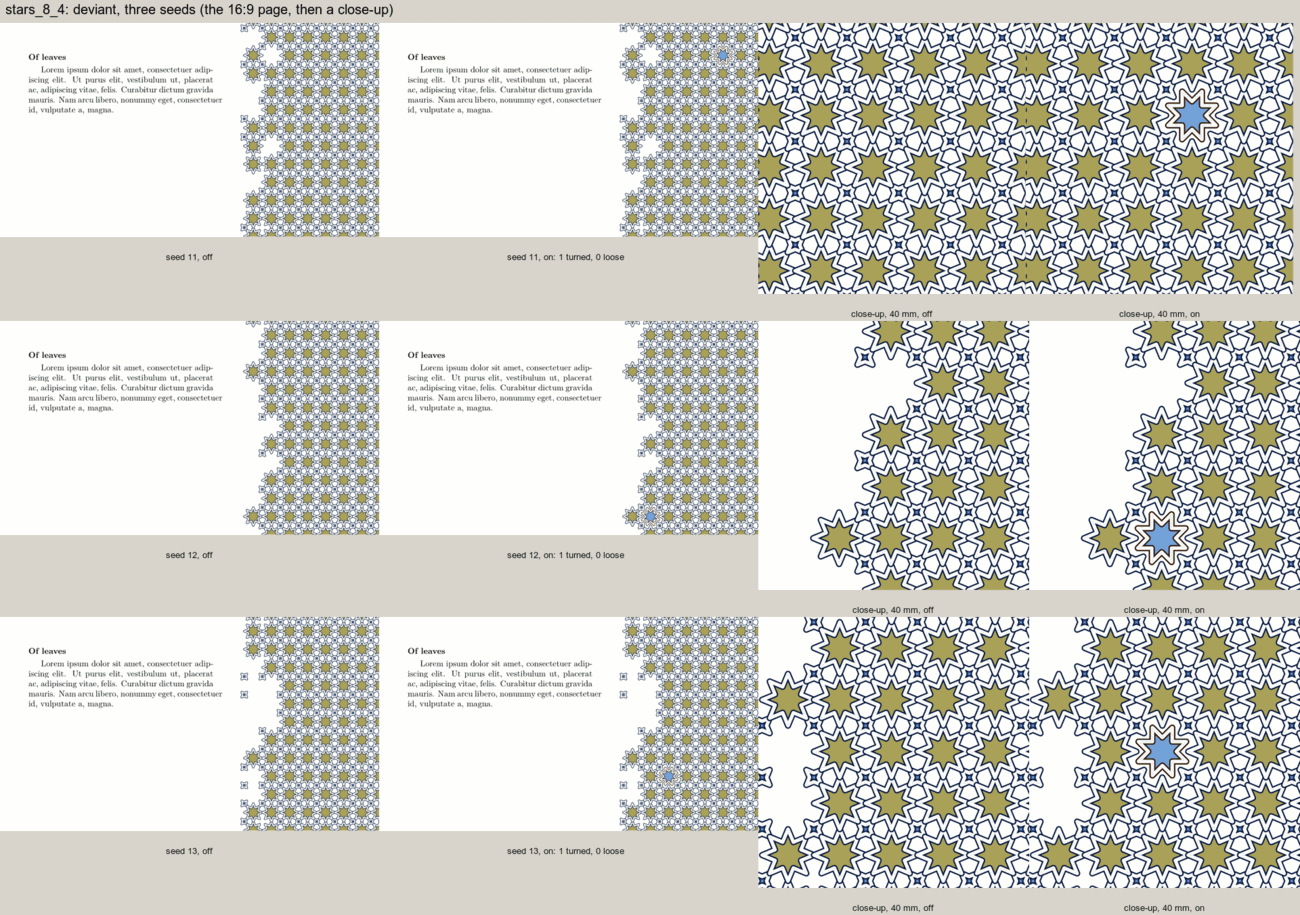
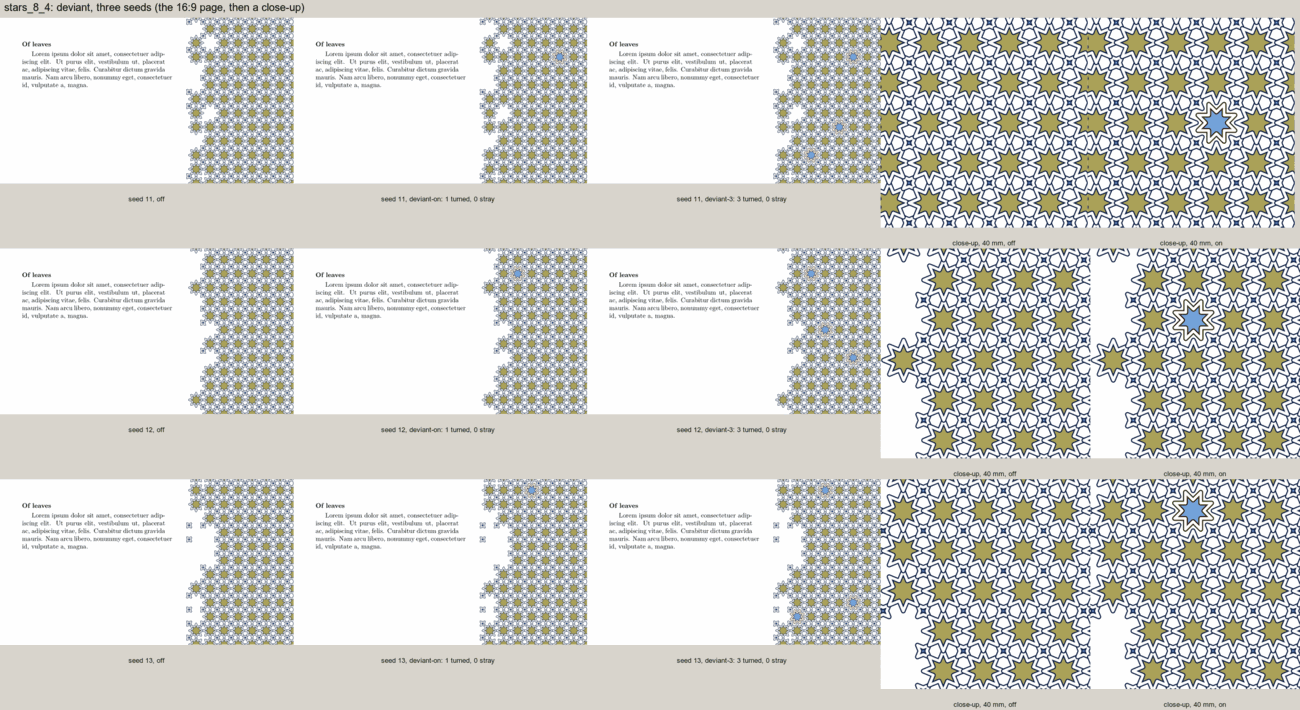
docs(pattern): name the new keys and values, and lay out the deviant and stray sheets

diff --git a/README.md b/README.md
@@ -270,9 +270,9 @@ cells, and a whole hero, inside it (`margin`); `scale` the cell size. A pattern'
 
 #### Touches on a pattern field
 
-Four keys lay small touches on a pattern's field, all off unless set. `glint` says where gold lies in the field, in place of the pattern's own: `on` lays a few glints where the bands cross, spread by the page's seed; `core` makes the band's core gold; `cells` gilds a few whole cells; `knobs` sets a gold knob at the middle of every cell; `off`, the default, leaves the field as it is. `herogilding=on` paints the hero's lines in gold and combines with any `glint`. `deviant=on` turns at most one whole cell on each side of the text, or of a perimeter band, and paints it in another colour. `stray=on` lets one cell come loose from the field's edge and lie a little way outside it, a dotted path leading back to the gap it left, clear of the text as the field is.
+Four keys lay small touches on a pattern's field, all off unless set. `glint` says where gold lies in the field, in place of the pattern's own: `on` lays a few glints where the bands cross, spread by the page's seed; `core` makes the band's core gold; `cells` gilds a few whole cells; `knobs` sets a gold knob at the middle of every cell; `off`, the default, leaves the field as it is. `herogilding=on` paints the hero's lines in gold and combines with any `glint`. `deviant` turns whole cells and paints them in another colour: `on` turns one on the page, a number from 2 to 4 that many, on different edges of the paper in a perimeter band and of the text in a field, a second on an edge only when every edge has one, and never two next to each other; where there is room for fewer than asked the log says so. `stray=on` lets one cell come loose from the field's edge and lie at least about a cell's width from the gap it left, a dotted path leading back to it, clear of the text as the field is; where no place keeps that, none is laid and the log says so.
 
-The places are drawn from the page's seed, so a seed gives the same page, and a page without the keys is painted exactly as it was. `glint=core` shows only where the band's core is drawn, at least 0.6 pt wide: in `asanoha`, `overlapping_circles` and `shippo` it is narrower at their own scale, and the log says so (a larger `scale` or `bandwidth` widens it); `khatam` and `penrose_rhombs` paint no core. A pattern with nothing to lay a key by is painted as it is, and the log says why: `celtic_knot` and `sikku_kolam` have no cells for `cells`, `deviant` and `stray`, no middles for `knobs`, and no crossings for `on`; `truchet` (its arcs meet at the middle of a tile's edge) and `rosette_lattice` (its straps cross inside the rosette) have no crossings for `on`. In a band of whole rows each side is a strip of its own: `deviant` turns one cell in each, `stray` one on one strip only. The sheets below are made by `just pattern-touches` (docs/pattern-touches.md).
+The places are drawn from the page's seed, so a seed gives the same page, and a page without the keys is painted exactly as it was. `glint=core` shows only where the band's core is drawn, at least 0.6 pt wide: in `asanoha`, `overlapping_circles` and `shippo` it is narrower at their own scale, and the log says so (a larger `scale` or `bandwidth` widens it); `khatam` and `penrose_rhombs` paint no core. A pattern with nothing to lay a key by is painted as it is, and the log says why: `celtic_knot` and `sikku_kolam` have no cells for `cells`, `deviant` and `stray`, no middles for `knobs`, and no crossings for `on`; `truchet` (its arcs meet at the middle of a tile's edge) and `rosette_lattice` (its straps cross inside the rosette) have no crossings for `on`. In a band of whole rows each side is a strip of its own: `deviant` draws from the seed which strips carry one, and `stray` one strip only. The sheets below are made by `just pattern-touches` (docs/pattern-touches.md).
 
 ![glint: today, on, core, cells, knobs, herogilding](docs/images/pattern-glint.png)
 

diff --git a/docs/pattern-touches.md b/docs/pattern-touches.md
@@ -8,8 +8,9 @@ This page is about the tools that draw them for comparison.
 `just pattern-touches OUT SET` (tools/pattern-touches.sh) bakes the layouts (tools/pattern-bake.sh: tex/lorem.tex and the 16:9 slide of tools/pattern-slide.tex), renders the variants of tools/pattern_variants.lua that carry that `set` with tools/pattern_roles.lua, and lays out OUT/sheets/:
 
 - `gold`: per pattern, today's field and `glint=on`, `core`, `cells`, `knobs` and `herogilding=on` side by side, field and hero, on paper and on the dark backdrop.
-- `deviant` and `stray`: per pattern, three seeds, the whole 16:9 page and a close-up, off and on.
-- `perimeter`: per pattern, a corner and a side of a 12 mm band, off and with each key.
+- `deviant`: per pattern, three seeds, the whole 16:9 page off, with `on` and with `3`, and a close-up of the first turned cell.
+- `stray`: per pattern, three seeds, the whole 16:9 page and a close-up, off and on.
+- `perimeter`: per pattern, a corner and a side of a 12 mm band, off and with each key (`deviant` on and as 3).
 - `inventory`: inventory.tsv, one pattern a row: its roles, the field's ink, the gold's share of it and the places each key lays.
 
 Under each tile stand the gold's share of the field's ink (pixels at 50 dpi more than half opaque; the gold is painted again as pure magenta, in `probe/`, and counted) and the places laid.
